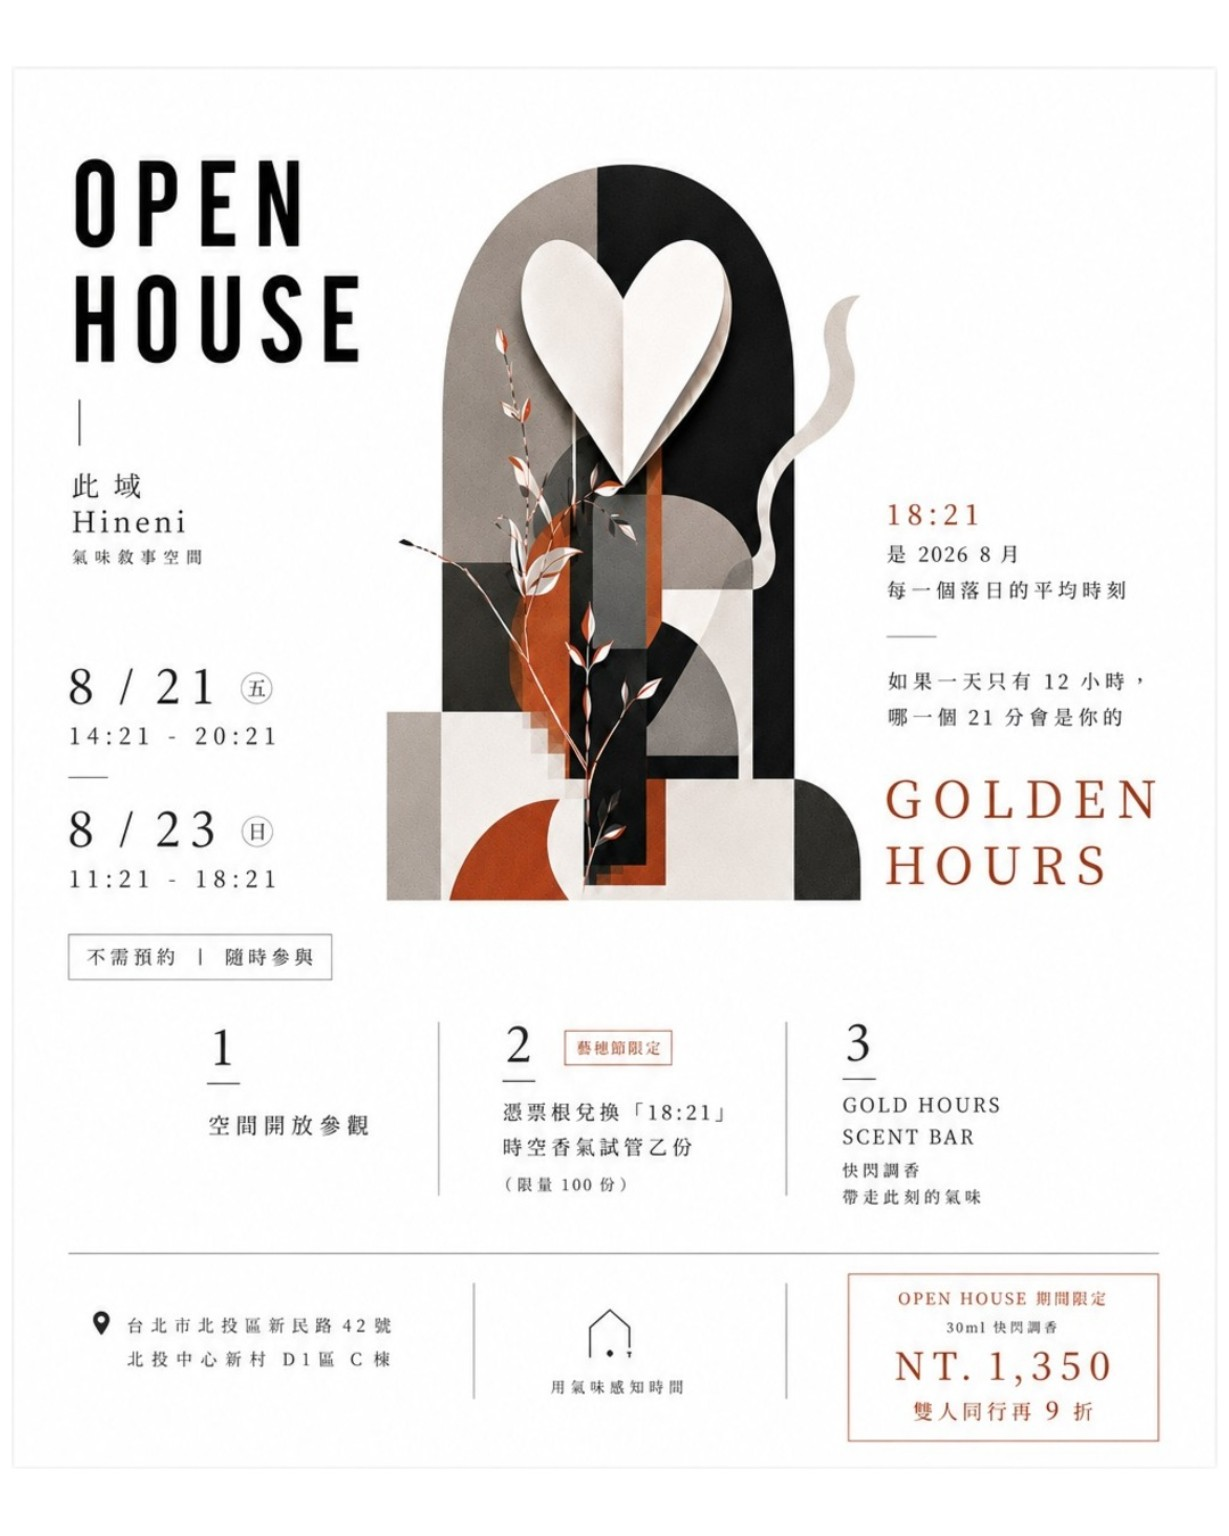
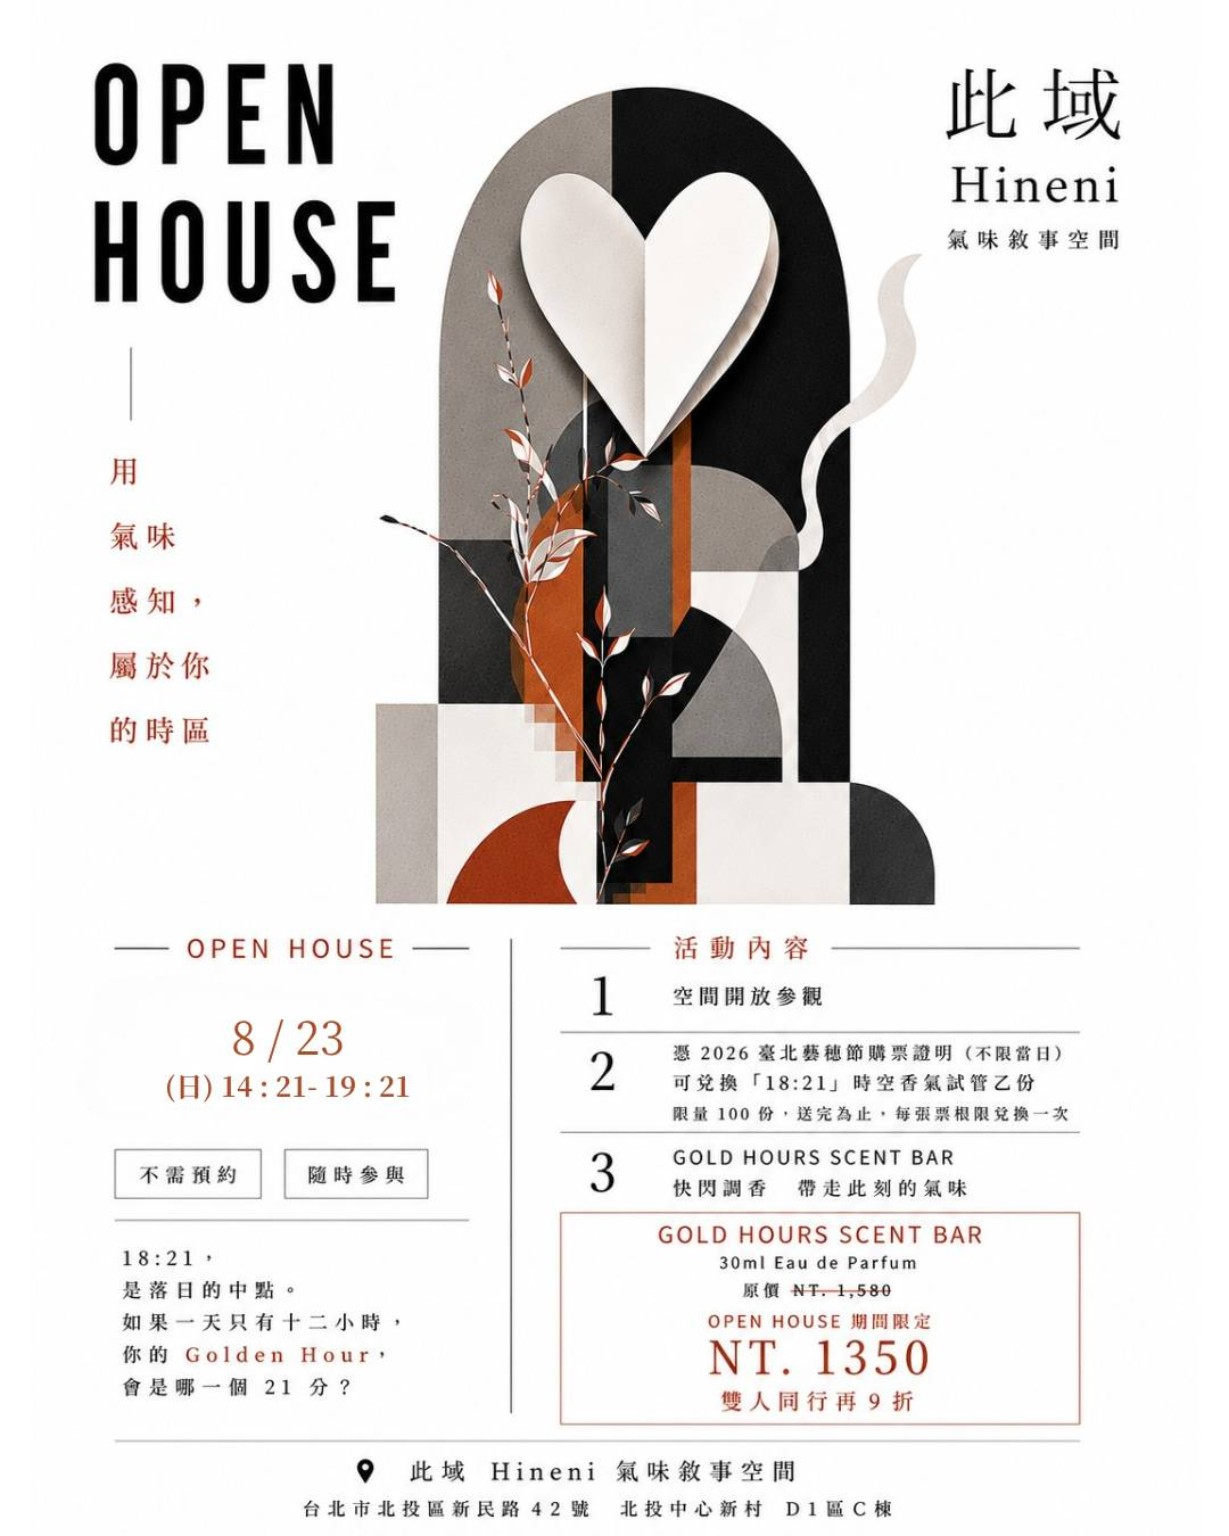
Update August OPEN HOUSE poster

diff --git a/index.html b/index.html
@@ -223,7 +223,7 @@
         <div class="events-carousel" data-events-carousel aria-roledescription="carousel" aria-label="八月 此域">
           <div class="events-viewport">
             <div class="events-track">
-              <figure class="event-slide"><img src="/assets/events/2026-08-open-house.jpg" alt="此域 Hineni OPEN HOUSE：8月21日與8月23日 GOLDEN HOURS SCENT BAR 活動海報"></figure>
+              <figure class="event-slide"><img src="/assets/events/2026-08-open-house.jpg" alt="此域 Hineni OPEN HOUSE：8月23日 GOLD HOURS SCENT BAR 活動海報"></figure>
               <figure class="event-slide"><img src="/assets/events/2026-08-aroma-idol.jpg" alt="亞洲香氛藝術大賽 Aroma Idol 2026年8月活動海報"></figure>
             </div>
           </div>
